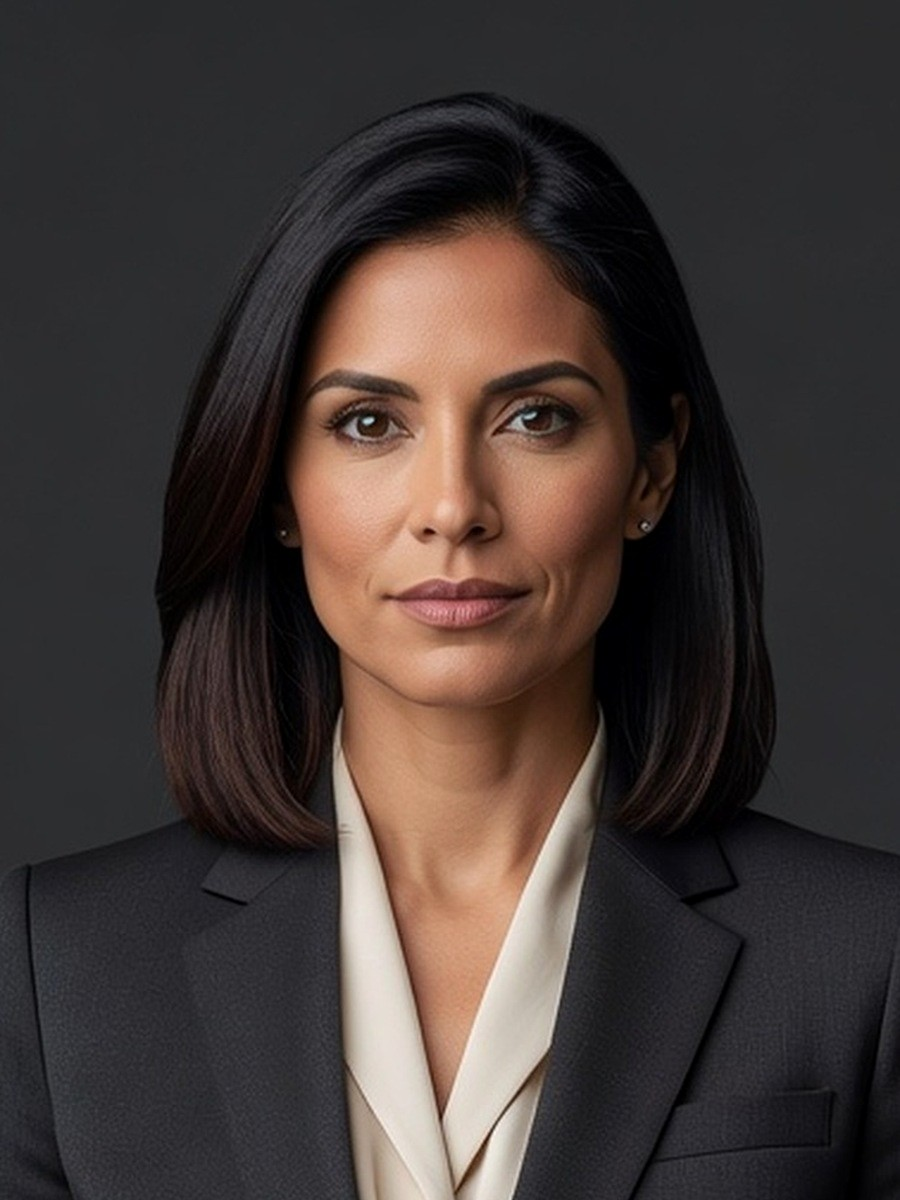
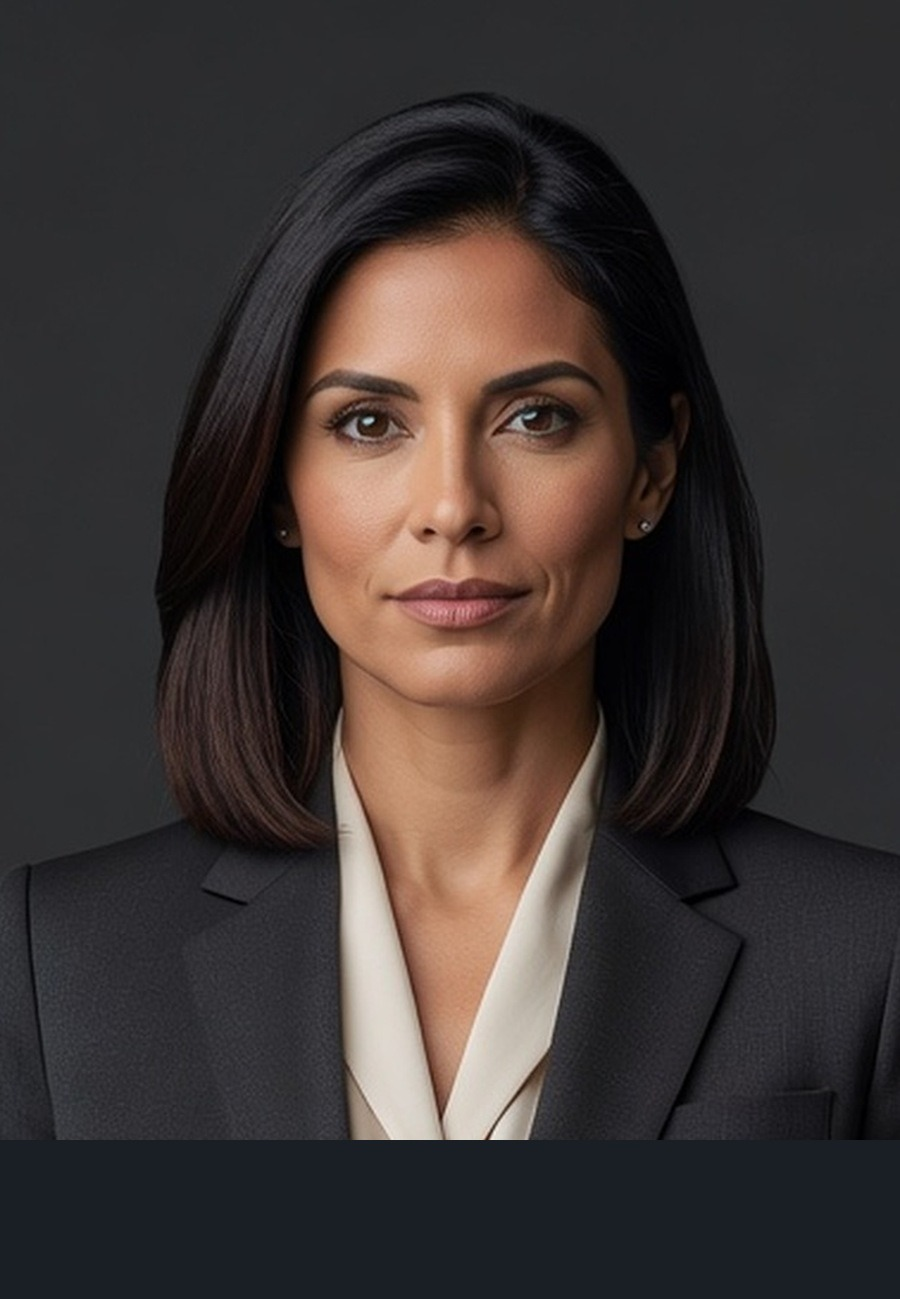
COMPLY personas: full-face crops, no mouth cutoff

diff --git a/comply-full.html b/comply-full.html
@@ -603,41 +603,6 @@ img.comply-logo,
 #personas .persona-board .card > img[alt="Jordan Park"]{object-position:42% 5%!important}
 
 
-/* Personas 3-up lock — no wrap, full faces */
-#personas .slide-inner{overflow:visible!important;width:100%!important;box-sizing:border-box!important}
-#personas .persona-board{
-  display:grid!important;
-  grid-template-columns:repeat(3,minmax(0,1fr))!important;
-  gap:.55rem!important;
-  width:100%!important;
-  align-items:stretch!important;
-}
-#personas .persona-board .card{
-  min-width:0!important;
-  max-width:100%!important;
-  overflow:hidden!important;
-  display:flex!important;
-  flex-direction:column!important;
-  padding:.55rem .55rem .65rem!important;
-}
-#personas .persona-board .card > img{
-  width:100%!important;
-  height:190px!important;
-  object-fit:cover!important;
-  object-position:center 8%!important;
-  border-radius:10px!important;
-  margin:0 0 .4rem!important;
-  flex:0 0 auto!important;
-}
-#personas .persona-board .card > img[alt="Jordan Park"]{object-position:42% 5%!important}
-#personas .persona-board .persona-quote{font-size:.7rem!important;line-height:1.25!important;margin:0 0 .35rem!important}
-#personas .persona-board .persona-meta{font-size:.66rem!important;line-height:1.3!important;margin:0 0 .35rem!important}
-#personas .persona-board .persona-name{font-size:.95rem!important}
-#personas .persona-board .mini li{font-size:.62rem!important;line-height:1.25!important}
-#personas .persona-board .mini h4{font-size:.62rem!important}
-@media print{
-  #personas .persona-board .card > img{height:150px!important}
-}
 /* Dark openers polish */
 .slide.section-dark .slide-inner{
   justify-content:center!important;
@@ -979,6 +944,50 @@ img.comply-logo,
 .slide#close .cad-art{ display:none!important; }
 @media print{
   .slide#close .slide-inner{ min-height:0!important; -webkit-print-color-adjust:exact; print-color-adjust:exact; }
+}
+
+
+/* Personas: full faces — no mouth crop */
+#personas .persona-board{
+  display:grid!important;
+  grid-template-columns:repeat(3,minmax(0,1fr))!important;
+  gap:.55rem!important;
+  width:100%!important;
+  align-items:stretch!important;
+}
+#personas .persona-board .card{
+  min-width:0!important;
+  overflow:hidden!important;
+  display:flex!important;
+  flex-direction:column!important;
+  padding:.55rem .55rem .65rem!important;
+}
+#personas .persona-board .card > img,
+#personas .persona-board img{
+  display:block!important;
+  width:100%!important;
+  height:240px!important;
+  max-height:240px!important;
+  object-fit:cover!important;
+  /* bias upward so chin/mouth stay in frame */
+  object-position:center 12%!important;
+  border-radius:12px!important;
+  margin:0 0 .45rem!important;
+  background:#1a1f26!important;
+  flex:0 0 auto!important;
+}
+#personas .persona-board img[alt="Marcus Hale"],
+#personas .persona-board img[src*="marcus"]{ object-position:center 8%!important; }
+#personas .persona-board img[alt="Jordan Park"],
+#personas .persona-board img[src*="jordan"]{ object-position:center 10%!important; }
+#personas .persona-board img[alt="Elena Vargas"],
+#personas .persona-board img[src*="elena"]{ object-position:center 14%!important; }
+#personas .persona-board .persona-quote{ font-size:.7rem!important; line-height:1.25!important; }
+#personas .persona-board .persona-meta{ font-size:.66rem!important; line-height:1.3!important; }
+#personas .persona-board .mini li{ font-size:.62rem!important; }
+@media print{
+  #personas .persona-board .card > img,
+  #personas .persona-board img{ height:200px!important; max-height:200px!important; }
 }
 
 </style>

diff --git a/comply.html b/comply.html
@@ -603,41 +603,6 @@ img.comply-logo,
 #personas .persona-board .card > img[alt="Jordan Park"]{object-position:42% 5%!important}
 
 
-/* Personas 3-up lock — no wrap, full faces */
-#personas .slide-inner{overflow:visible!important;width:100%!important;box-sizing:border-box!important}
-#personas .persona-board{
-  display:grid!important;
-  grid-template-columns:repeat(3,minmax(0,1fr))!important;
-  gap:.55rem!important;
-  width:100%!important;
-  align-items:stretch!important;
-}
-#personas .persona-board .card{
-  min-width:0!important;
-  max-width:100%!important;
-  overflow:hidden!important;
-  display:flex!important;
-  flex-direction:column!important;
-  padding:.55rem .55rem .65rem!important;
-}
-#personas .persona-board .card > img{
-  width:100%!important;
-  height:190px!important;
-  object-fit:cover!important;
-  object-position:center 8%!important;
-  border-radius:10px!important;
-  margin:0 0 .4rem!important;
-  flex:0 0 auto!important;
-}
-#personas .persona-board .card > img[alt="Jordan Park"]{object-position:42% 5%!important}
-#personas .persona-board .persona-quote{font-size:.7rem!important;line-height:1.25!important;margin:0 0 .35rem!important}
-#personas .persona-board .persona-meta{font-size:.66rem!important;line-height:1.3!important;margin:0 0 .35rem!important}
-#personas .persona-board .persona-name{font-size:.95rem!important}
-#personas .persona-board .mini li{font-size:.62rem!important;line-height:1.25!important}
-#personas .persona-board .mini h4{font-size:.62rem!important}
-@media print{
-  #personas .persona-board .card > img{height:150px!important}
-}
 /* Dark openers polish */
 .slide.section-dark .slide-inner{
   justify-content:center!important;
@@ -979,6 +944,50 @@ img.comply-logo,
 .slide#close .cad-art{ display:none!important; }
 @media print{
   .slide#close .slide-inner{ min-height:0!important; -webkit-print-color-adjust:exact; print-color-adjust:exact; }
+}
+
+
+/* Personas: full faces — no mouth crop */
+#personas .persona-board{
+  display:grid!important;
+  grid-template-columns:repeat(3,minmax(0,1fr))!important;
+  gap:.55rem!important;
+  width:100%!important;
+  align-items:stretch!important;
+}
+#personas .persona-board .card{
+  min-width:0!important;
+  overflow:hidden!important;
+  display:flex!important;
+  flex-direction:column!important;
+  padding:.55rem .55rem .65rem!important;
+}
+#personas .persona-board .card > img,
+#personas .persona-board img{
+  display:block!important;
+  width:100%!important;
+  height:240px!important;
+  max-height:240px!important;
+  object-fit:cover!important;
+  /* bias upward so chin/mouth stay in frame */
+  object-position:center 12%!important;
+  border-radius:12px!important;
+  margin:0 0 .45rem!important;
+  background:#1a1f26!important;
+  flex:0 0 auto!important;
+}
+#personas .persona-board img[alt="Marcus Hale"],
+#personas .persona-board img[src*="marcus"]{ object-position:center 8%!important; }
+#personas .persona-board img[alt="Jordan Park"],
+#personas .persona-board img[src*="jordan"]{ object-position:center 10%!important; }
+#personas .persona-board img[alt="Elena Vargas"],
+#personas .persona-board img[src*="elena"]{ object-position:center 14%!important; }
+#personas .persona-board .persona-quote{ font-size:.7rem!important; line-height:1.25!important; }
+#personas .persona-board .persona-meta{ font-size:.66rem!important; line-height:1.3!important; }
+#personas .persona-board .mini li{ font-size:.62rem!important; }
+@media print{
+  #personas .persona-board .card > img,
+  #personas .persona-board img{ height:200px!important; max-height:200px!important; }
 }
 
 </style>

diff --git a/comply-short.html b/comply-short.html
@@ -392,41 +392,6 @@ img.comply-logo,
 }
 
 
-/* Personas 3-up lock — no wrap, full faces */
-#personas .slide-inner{overflow:visible!important;width:100%!important;box-sizing:border-box!important}
-#personas .persona-board{
-  display:grid!important;
-  grid-template-columns:repeat(3,minmax(0,1fr))!important;
-  gap:.55rem!important;
-  width:100%!important;
-  align-items:stretch!important;
-}
-#personas .persona-board .card{
-  min-width:0!important;
-  max-width:100%!important;
-  overflow:hidden!important;
-  display:flex!important;
-  flex-direction:column!important;
-  padding:.55rem .55rem .65rem!important;
-}
-#personas .persona-board .card > img{
-  width:100%!important;
-  height:190px!important;
-  object-fit:cover!important;
-  object-position:center 8%!important;
-  border-radius:10px!important;
-  margin:0 0 .4rem!important;
-  flex:0 0 auto!important;
-}
-#personas .persona-board .card > img[alt="Jordan Park"]{object-position:42% 5%!important}
-#personas .persona-board .persona-quote{font-size:.7rem!important;line-height:1.25!important;margin:0 0 .35rem!important}
-#personas .persona-board .persona-meta{font-size:.66rem!important;line-height:1.3!important;margin:0 0 .35rem!important}
-#personas .persona-board .persona-name{font-size:.95rem!important}
-#personas .persona-board .mini li{font-size:.62rem!important;line-height:1.25!important}
-#personas .persona-board .mini h4{font-size:.62rem!important}
-@media print{
-  #personas .persona-board .card > img{height:150px!important}
-}
 /* Dark openers polish */
 .slide.section-dark .slide-inner{
   justify-content:center!important;
@@ -768,6 +733,50 @@ img.comply-logo,
 .slide#close .cad-art{ display:none!important; }
 @media print{
   .slide#close .slide-inner{ min-height:0!important; -webkit-print-color-adjust:exact; print-color-adjust:exact; }
+}
+
+
+/* Personas: full faces — no mouth crop */
+#personas .persona-board{
+  display:grid!important;
+  grid-template-columns:repeat(3,minmax(0,1fr))!important;
+  gap:.55rem!important;
+  width:100%!important;
+  align-items:stretch!important;
+}
+#personas .persona-board .card{
+  min-width:0!important;
+  overflow:hidden!important;
+  display:flex!important;
+  flex-direction:column!important;
+  padding:.55rem .55rem .65rem!important;
+}
+#personas .persona-board .card > img,
+#personas .persona-board img{
+  display:block!important;
+  width:100%!important;
+  height:240px!important;
+  max-height:240px!important;
+  object-fit:cover!important;
+  /* bias upward so chin/mouth stay in frame */
+  object-position:center 12%!important;
+  border-radius:12px!important;
+  margin:0 0 .45rem!important;
+  background:#1a1f26!important;
+  flex:0 0 auto!important;
+}
+#personas .persona-board img[alt="Marcus Hale"],
+#personas .persona-board img[src*="marcus"]{ object-position:center 8%!important; }
+#personas .persona-board img[alt="Jordan Park"],
+#personas .persona-board img[src*="jordan"]{ object-position:center 10%!important; }
+#personas .persona-board img[alt="Elena Vargas"],
+#personas .persona-board img[src*="elena"]{ object-position:center 14%!important; }
+#personas .persona-board .persona-quote{ font-size:.7rem!important; line-height:1.25!important; }
+#personas .persona-board .persona-meta{ font-size:.66rem!important; line-height:1.3!important; }
+#personas .persona-board .mini li{ font-size:.62rem!important; }
+@media print{
+  #personas .persona-board .card > img,
+  #personas .persona-board img{ height:200px!important; max-height:200px!important; }
 }
 
 </style>
